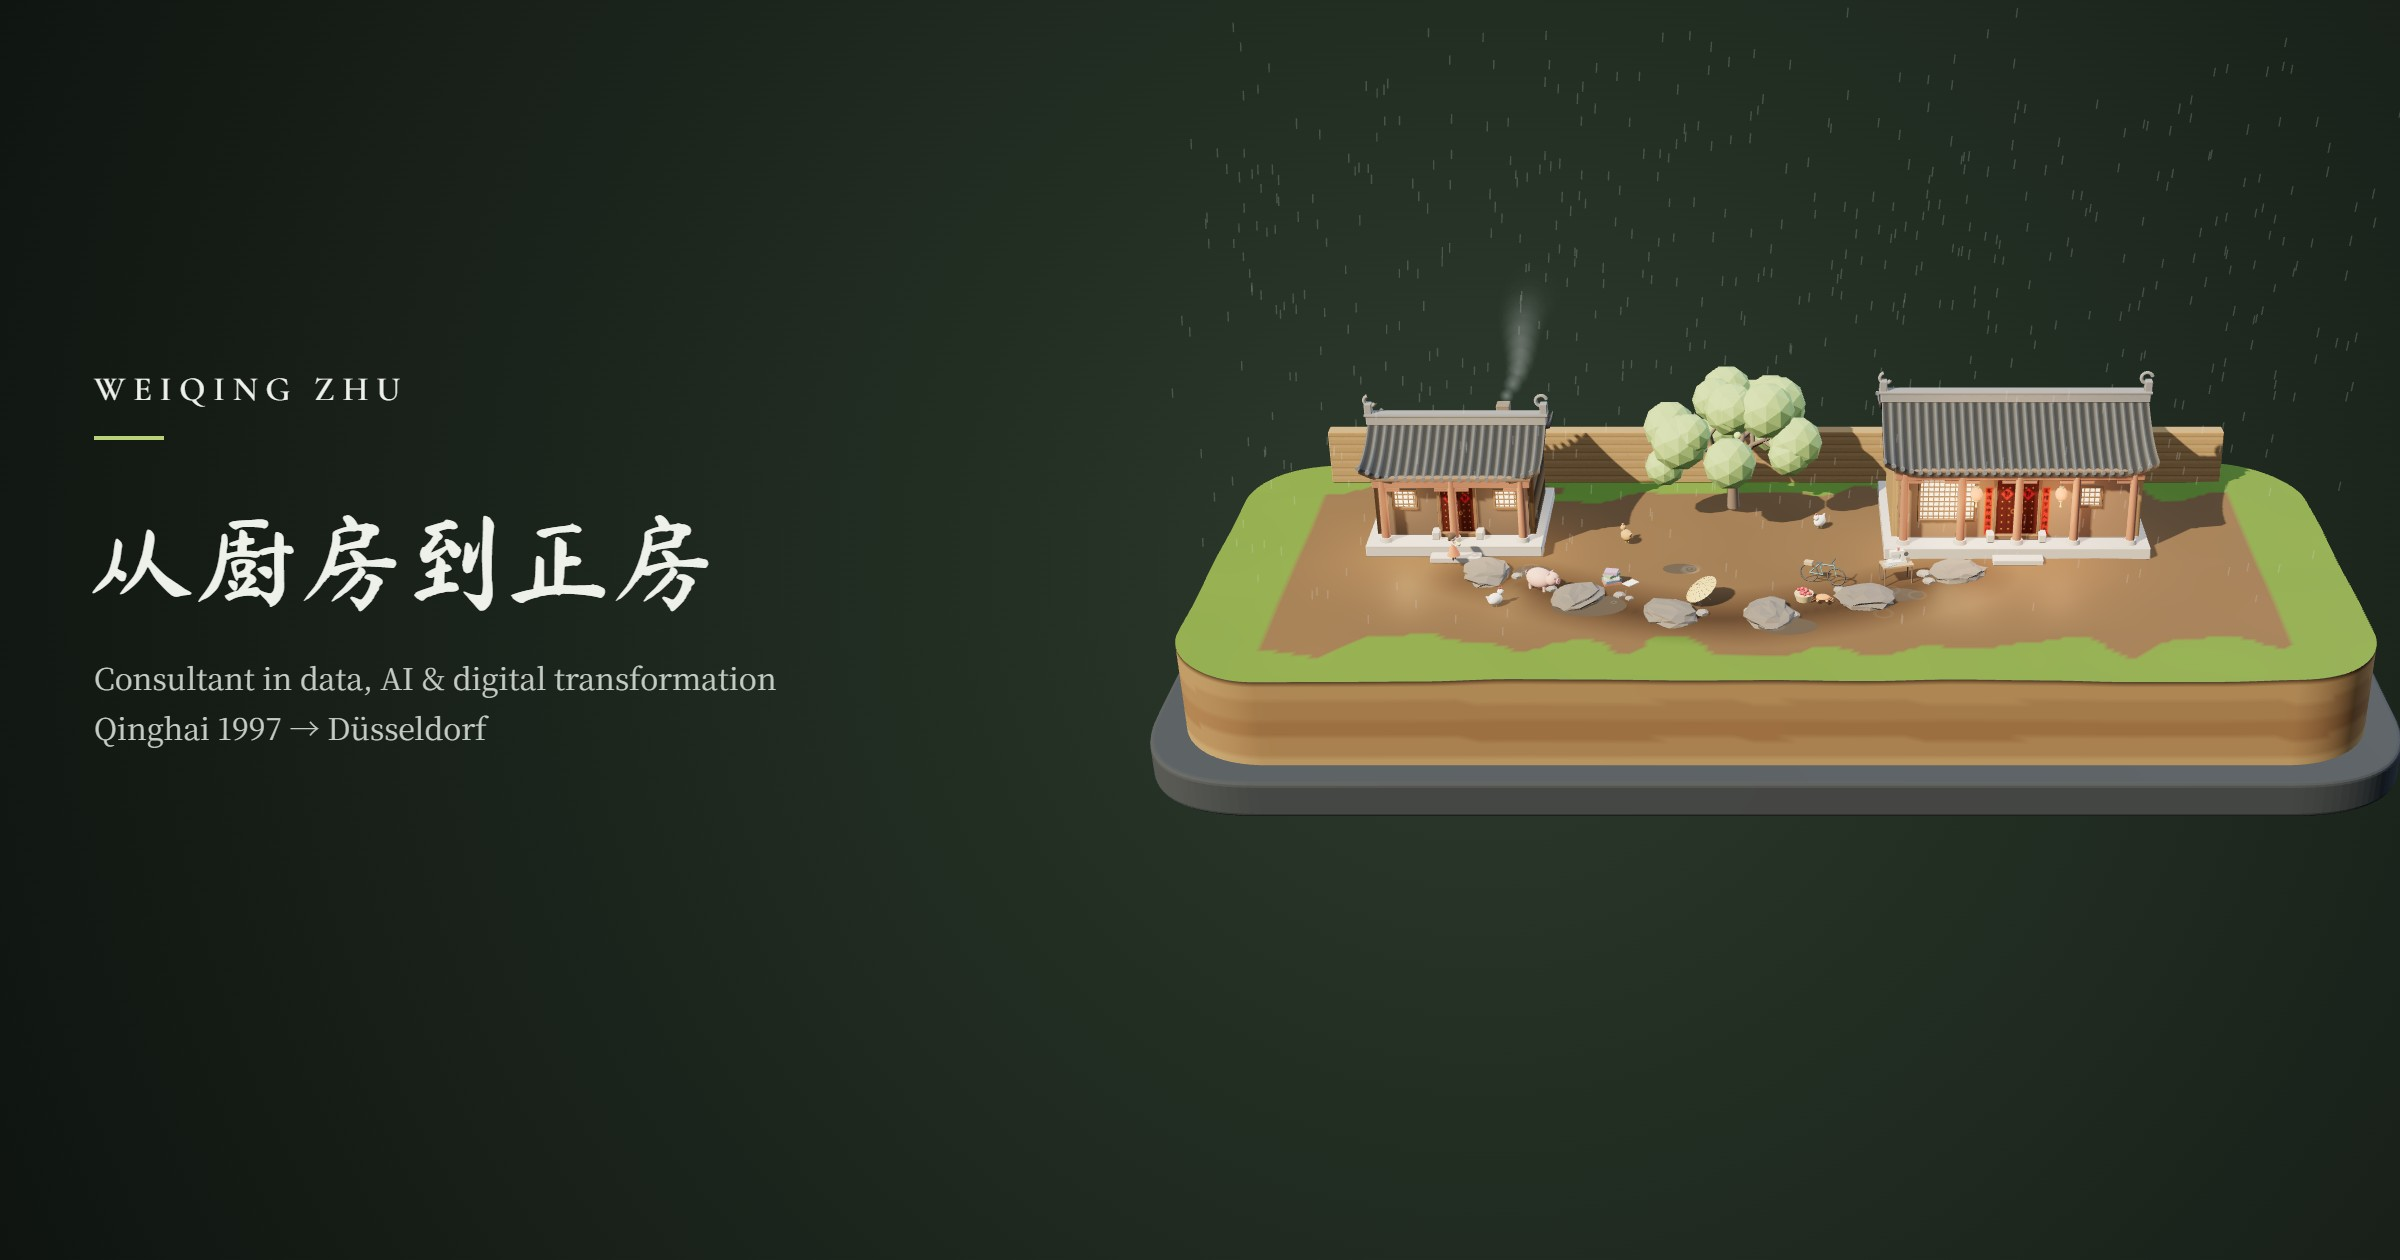
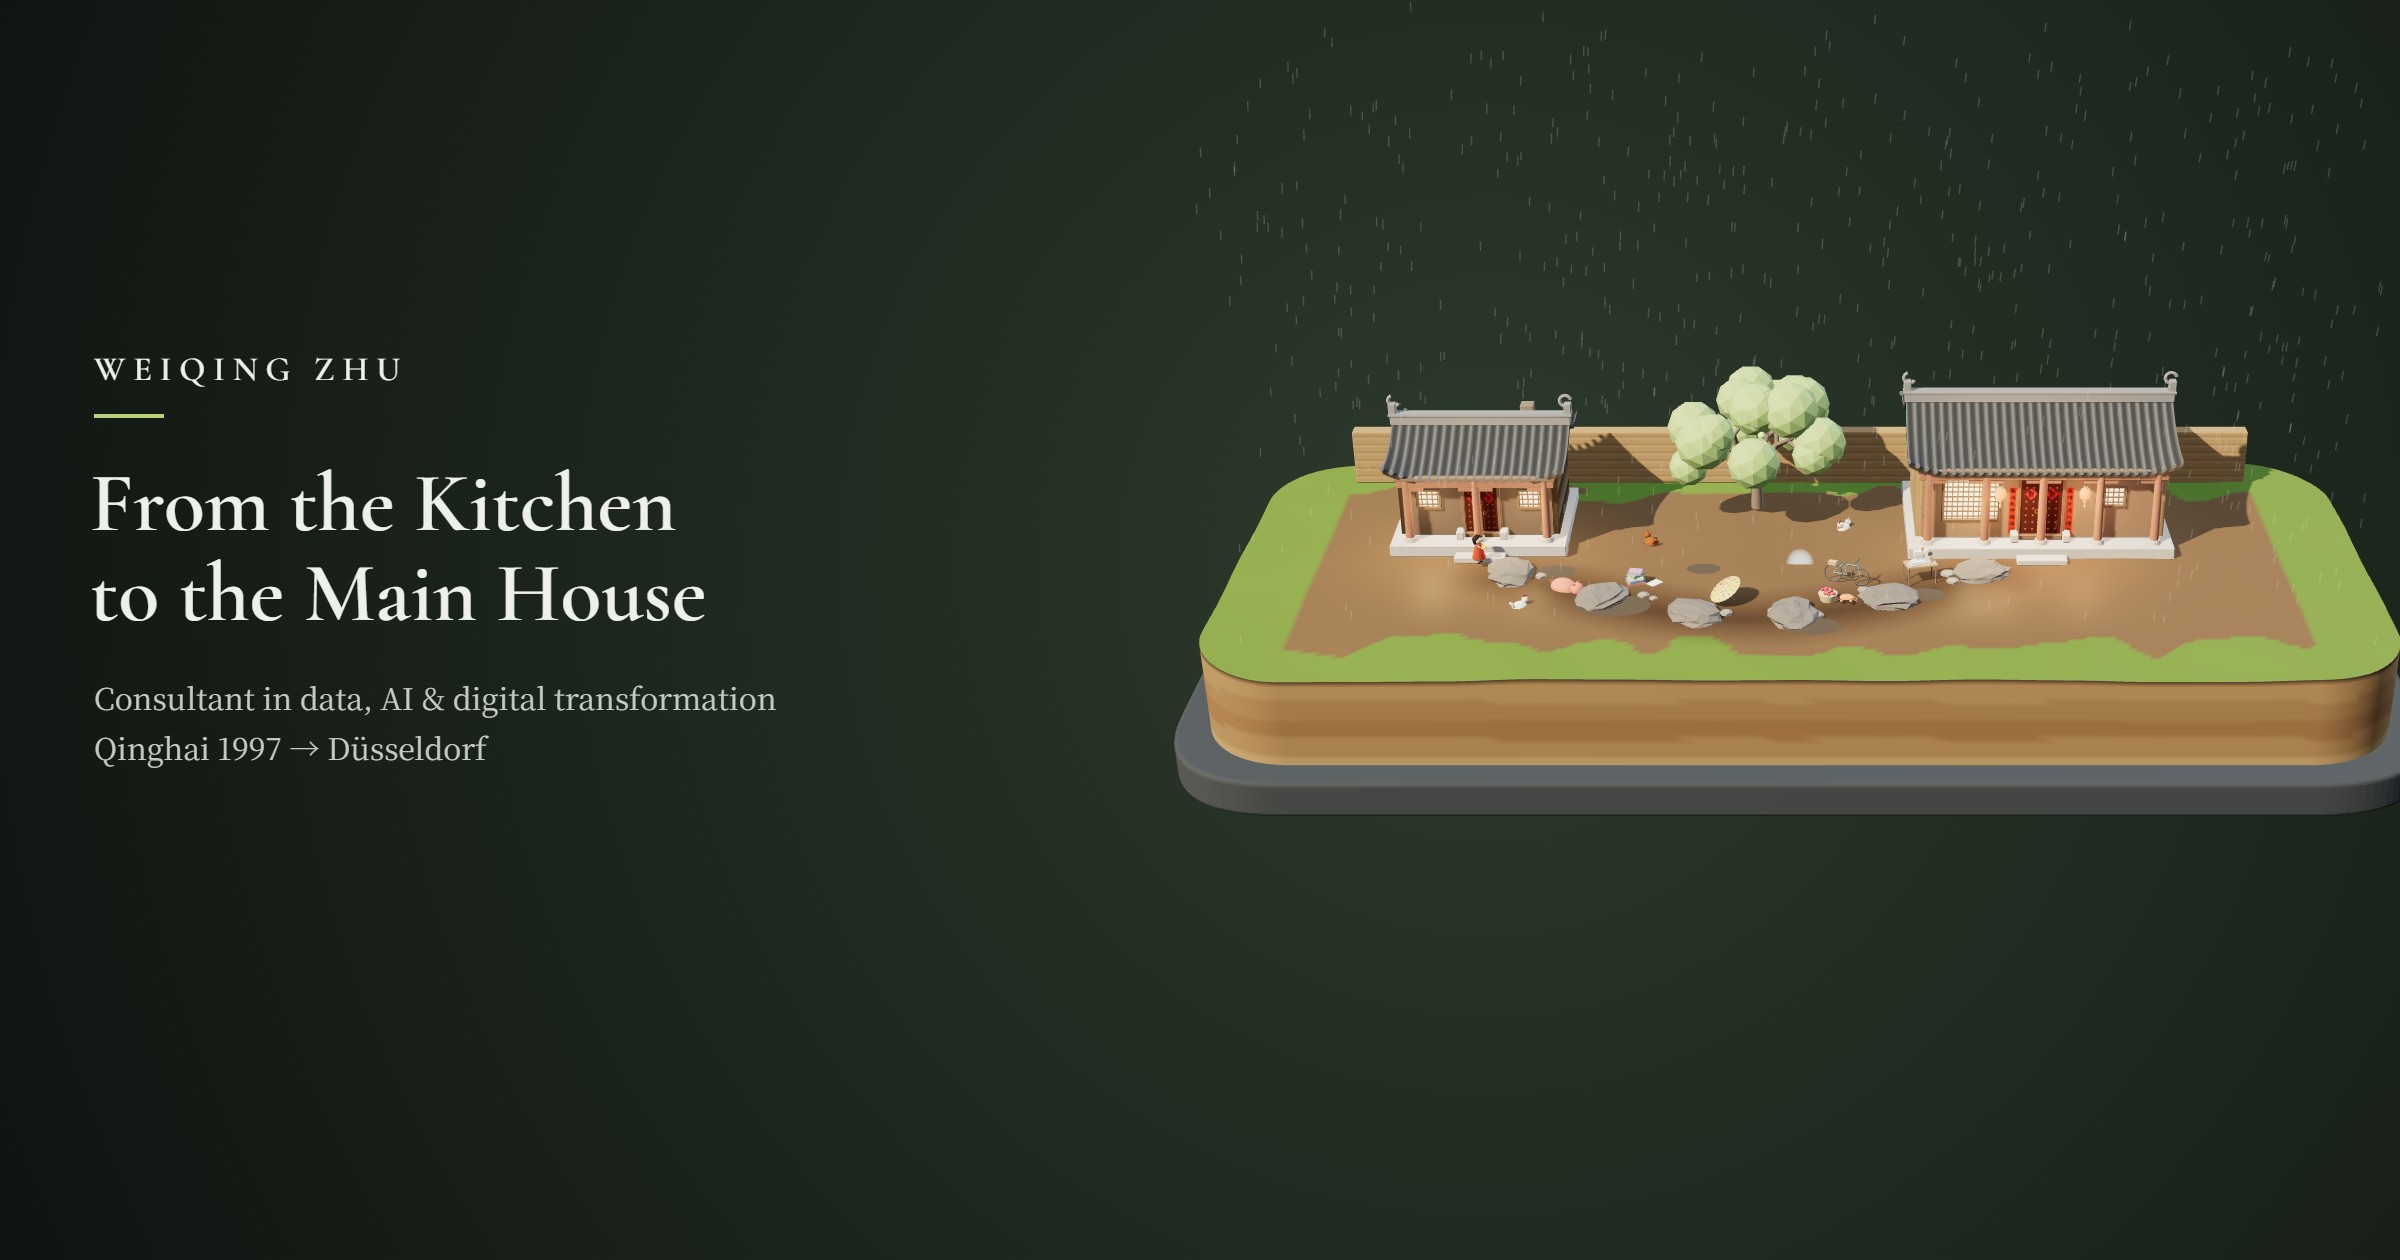
English page title, link card and preview image

diff --git a/index.html b/index.html
@@ -1,17 +1,17 @@
 <!doctype html>
 <meta name="description" content="Weiqing Zhu – consultant in data, AI and digital transformation, Düsseldorf. A path of stones from my grandmother's kitchen in Qinghai to today.">
-<meta property="og:title" content="Weiqing Zhu · 从厨房到正房">
+<meta property="og:title" content="Weiqing Zhu · From the Kitchen to the Main House">
 <meta property="og:description" content="A path of stones from my grandmother's kitchen in Qinghai to today. Consultant in data, AI & digital transformation, Düsseldorf.">
 <meta property="og:type" content="website">
 <meta property="og:url" content="https://weiweihere.github.io/">
-<meta property="og:image" content="https://weiweihere.github.io/preview.jpg">
+<meta property="og:image" content="https://weiweihere.github.io/preview.jpg?v=2">
 <meta property="og:image:width" content="2400">
 <meta property="og:image:height" content="1260">
 <meta name="twitter:card" content="summary_large_image">
-<meta name="twitter:image" content="https://weiweihere.github.io/preview.jpg">
+<meta name="twitter:image" content="https://weiweihere.github.io/preview.jpg?v=2">
 <meta charset="utf-8">
 <meta name="viewport" content="width=device-width, initial-scale=1, viewport-fit=cover">
-<title>姥姥家的院子</title>
+<title>Weiqing Zhu · From the Kitchen to the Main House</title>
 <link rel="preconnect" href="https://fonts.googleapis.com">
 <link rel="preconnect" href="https://fonts.gstatic.com" crossorigin>
 <link rel="stylesheet" href="https://fonts.googleapis.com/css2?family=Cormorant+Garamond:wght@500;600&family=Ma+Shan+Zheng&family=Noto+Serif+SC:wght@400;600&display=swap">
@@ -197,7 +197,7 @@ body.en .story p { line-height: 1.8; }
 @media (prefers-reduced-motion: reduce) { #panel.enter { animation: none; } }
 </style>
 
-<div id="loader" aria-hidden="true"><h2>姥姥家的院子</h2><p>Weiqing Zhu · 1997 — 2026</p><span class="bar"></span></div>
+<div id="loader" aria-hidden="true"><h2 id="loaderTitle">姥姥家的院子</h2><p>Weiqing Zhu · 1997 — 2026</p><span class="bar"></span></div>
 <div id="stage"></div>
 <div id="tags"></div>
 
@@ -388,6 +388,7 @@ const UI = {
   en: { sub: 'From the kitchen to the main house · 1997 — 2026', hint: 'Scroll or press → to walk · drag to look around', prev: '← Back', next: 'Next stone →', summer: 'Summer', winter: 'Winter', cv: 'CV', cvTitle: 'CV', introCv: 'Read my writing', introWalk: 'Walk the path →', highlights: 'Highlights', sound: 'Sound', wr: 'Writing', wrTitle: 'Writing', wrIntro: "Analyses I published at Sinolytics on China's AI, chips, innovative drugs and tech spending, plus an interview and a technical note.", readWr: 'Read my writing →' }
 };
 let lang = (navigator.language || '').toLowerCase().startsWith('zh') ? 'zh' : 'en';
+if (lang === 'en') { const lt = document.getElementById('loaderTitle'); lt.textContent = 'From the Kitchen to the Main House'; lt.style.fontFamily = 'var(--latin)'; lt.style.fontWeight = '600'; lt.style.letterSpacing = '.02em'; }
 const S = i => lang === 'en' ? Object.assign({}, STEPS[i], EN[i]) : STEPS[i];
 
 /* ================================================================ */
@@ -1083,6 +1084,7 @@ function buildUI() {
 function applyLang() {
   const u = UI[lang];
   document.documentElement.lang = lang === 'en' ? 'en' : 'zh-CN';
+  document.title = lang === 'en' ? 'Weiqing Zhu · From the Kitchen to the Main House' : 'Weiqing Zhu · 从厨房到正房';
   document.body.classList.toggle('en', lang === 'en');
   STEPS.forEach((_, i) => {
     const s = S(i);
